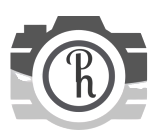
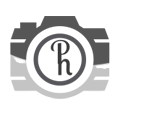
2nd

diff --git a/index.html b/index.html
@@ -17,7 +17,7 @@
 <!-- Navigation -->
 <nav class="navbar navbar-expand-md navbar-light sticky-top bg-light">
 	<div class ="container fluid">
-		<a class="navbar-brand" href="index.html"><img src="img/Screenshot_2020-09-20_at_8.47.58_PM-removebg-preview.png"></a>
+		<a class="navbar-brand" href="index.html"><img src="img/logo.png"></a>
 		<button class="navbar-toggler" type="button" data-toggle="collapse"data-target="#navbarResponsive">
 			<span class="navbar-toggler-icon"></span>
 			</button>
@@ -29,9 +29,9 @@
 					<li class="nav-items">
 						<a class="nav-link" href="photoghrapher.html">PHOTOGRAPHERS</a>	
 					</li><li class="nav-items">
-						<a class="nav-link" href="#">Connect us</a>	
+						<a class="nav-link" href="feedback.html">Feedback</a>	
 					</li><li class="nav-items">
-						<a class="nav-link" href="#">About us</a>	
+						<a class="nav-link" href="aboutus.html">About us</a>	
 					</li>
 				</ul>
 	</div>
@@ -123,7 +123,7 @@
 <div CLASS="container-fluid">
 	<div class="row Jumbotron">
 		<div class="col-xs-12 col-sn-12 col-ad-9 col-lg-9 col-xl-18">
-			<p class  = "lead">jai shree ram</p>
+			<p class  = "lead">We put you in direct contact with your photographer so you can have a helpful conversation ahead of the shoot. Discuss ideas, define your vision, and find out how to prepare.Know who your photographer is ahead of time. We only offer highly talented, pre-vetted, professional photographers. Don’t get caught off-guard by a student or someone with no experience.On-demand sites often outsource editing and post-production. But when you book with us, your photographer works with you from concept to completion. You get photos that reflect their signature style.</p>
 		</div>
 		<div class ="col-xs-12 col-sn-12 col-ad-3 col-lg-3 col-xl-2">
 		<a href="photoghrapher.html"><button type="button" class="btn btn-outline-secondary btn-lg">Get Phototgrapher</button></a>	
@@ -204,33 +204,30 @@
 	<div class="container-fluid padding">
 		<div class="row text-center">
 			<div class="col-md-4">
-				<img src="img/Screenshot_2020-09-20_at_8.47.58_PM-removebg-preview.png">
+				<img src="img/logo.png">
 				<hr class="light">
-				<p>+91-9364758920</p>
 				<p>photographerhub@gmail.com</p>
 				<p>689	Connaught Place</p>
-				<p>delhi,110001</p>
 </div>
 <div class="col-md-4">
+	<svg width="5em" height="5em" viewBox="0 0 16 16" class="bi bi-alarm" fill="currentColor" xmlns="http://www.w3.org/2000/svg">
+		<path fill-rule="evenodd" d="M6.5 0a.5.5 0 0 0 0 1H7v1.07a7.001 7.001 0 0 0-3.273 12.474l-.602.602a.5.5 0 0 0 .707.708l.746-.746A6.97 6.97 0 0 0 8 16a6.97 6.97 0 0 0 3.422-.892l.746.746a.5.5 0 0 0 .707-.708l-.601-.602A7.001 7.001 0 0 0 9 2.07V1h.5a.5.5 0 0 0 0-1h-3zm1.038 3.018a6.093 6.093 0 0 1 .924 0 6 6 0 1 1-.924 0zM8.5 5.5a.5.5 0 0 0-1 0v3.362l-1.429 2.38a.5.5 0 1 0 .858.515l1.5-2.5A.5.5 0 0 0 8.5 9V5.5zM0 3.5c0 .753.333 1.429.86 1.887A8.035 8.035 0 0 1 4.387 1.86 2.5 2.5 0 0 0 0 3.5zM13.5 1c-.753 0-1.429.333-1.887.86a8.035 8.035 0 0 1 3.527 3.527A2.5 2.5 0 0 0 13.5 1z"/>
+	  </svg>
 	<hr class="light">
 	<h5>Working 24/7</h5>
+</div>
+	<div class="col-md-4">
+		<a href="www.facebook.com"><i class="fab fa-facebook fa-5x"></i></a>
+		<a href="www.twitter.com"><i class="fab fa-twitter fa-5x"></i></a>
+		<a href="www.instagram.com"><i class="fab fa-instagram fa-5x"></i></a>
+		<a href="www.youtube.com"><i class="fab fa-youtube fa-5x"></i></a>
+		<hr class="light">
+		<h5>CONNECT</h5>
+	</div>
 </div>
 </div>
 
 </footer>
-<!-- <footer id="main-footer" class="bg-dark">
-	     <div class="container"> 
-			       <div class="row">
-					            <div class="col text-center py-4">           
-									<h3>LOOPLAB</h3>
-											   <p>Copyright &copy; <span id="year"></span></p>
-														  <button class="btn btn-primary" data-toggle="modal" data-target="#contactModal">Contact US</button>
-																 </div>
-																	   </div>
-																		 </div>
-																		   </footer> -->
-
-
 
 
 </body>

diff --git a/feedback.html b/feedback.html
@@ -29,63 +29,33 @@
 					<li class="nav-items">
 						<a class="nav-link" href="photoghrapher.html">PHOTOGRAPHERS</a>	
 					</li><li class="nav-items">
-						<a class="nav-link" href="feedback.html">Feedback</a>	
+						<a class="nav-link" href="feedback.html"><b>Feedback</b></a>	
 					</li><li class="nav-items">
-						<a class="nav-link" href="aboutus.html"><b>About us</b></a>	
+						<a class="nav-link" href="aboutus.html">About us</a>	
 					</li>
 				</ul>
 	</div>
 </nav>
-<div class="container-fluid padding">
-	<div class="row padding">
-	<div class="col-md-12 col-lg-6">
-		<center><h2>About us</h2></center>
-		<p>
-			Photographerhub released on 2018 since then servicing their customes best of the photoghraphers they need.
-		</p>
-	<p>
-		The photographerhub is free for all site for the customer on one click can book their desired photoghrapher accordind to their requirements.
-	</p>	
-	<P>
-		We put you in direct contact with your photographer so you can have a helpful conversation ahead of the shoot. Discuss ideas, define your vision, and find out how to prepare.Know who your photographer is ahead of time. We only offer highly talented, pre-vetted, professional photographers. Don’t get caught off-guard by a student or someone with no experience.On-demand sites often outsource editing and post-production. But when you book with us, your photographer works with you from concept to completion. You get photos that reflect their signature style.
-	</P>
-	<P>
-		FOR MORE INFO CONTACT YOUR SOCIALS.
-		</P>
-		<P>
-			THANK YOU!
-		</P>
-		<P>
-			PHOTOGRAPHERS HUB
-		</P>
-		<br>
-		<a href="www.instagram.com"class="btn btn-primary">SOCIALS</a>
-	</div>
-	<div class="col-lg-6">
-		<img src="img/IMG_20180803_161237-01.jpeg" class="img-fluid">
-	</div>
-	</div>
-	</div>
-
-
-
-
-
-
-
-
-
-
-
-
-
-
-
-
-
-
-
-
+<form>
+<div class="container-fluid pading">
+	<div class="row welcome text-center">
+		<div class="col-12">
+			<h1 class="display-4">Feedback Form</h1>
+		</div>
+		<div class="form-group">
+			<label for="exampleFormControlInput1">Email address</label>
+			<input type="email" class="form-control" id="exampleFormControlInput1" placeholder="name@example.com">
+		  </div>
+		</div>
+		<div class="form-group">
+		  <label for="exampleFormControlTextarea1">Feedback</label>
+		  <textarea class="form-control" id="feedback" rows="10"></textarea>
+		</div>
+		<button class="btn btn-primary" type="submit">submit</button>
+		</div>
+		</div>
+		</form>
+<div>
 <footer id ="main-footer"class="bg-light">
 	<div class="container-fluid padding">
 		<div class="row text-center">
@@ -114,6 +84,7 @@
 </div>
 
 </footer>
+</div>
 
 </body>
 </html>

diff --git a/photoghrapher.html b/photoghrapher.html
@@ -17,7 +17,7 @@
 <!-- Navigation -->
 <nav class="navbar navbar-expand-md navbar-light sticky-top">
 	<div class ="container fluid">
-		<a class="navbar-brand" href="#"><img src="img/Screenshot_2020-09-20_at_8.47.58_PM-removebg-preview.png"></a>
+		<a class="navbar-brand" href="#"><img src="img/logo.png"></a>
 		<button class="navbar-toggler" type="button" data-toggle="collapse"data-target="#navbarResponsive">
 			<span class="navbar-toggler-icon"></span>
 			</button>
@@ -29,7 +29,7 @@
 					<li class="nav-items">
 						<a class="nav-link" href="photoghrapher.html"><b>PHOTOGRAPHERS</b></a>	
 					</li><li class="nav-items">
-						<a class="nav-link" href="connect.html">Connect us</a>	
+						<a class="nav-link" href="feedback.html">Feedback</a>	
 					</li><li class="nav-items">
 						<a class="nav-link" href="aboutus.html">About us</a>	
 					</li>
@@ -55,7 +55,35 @@
 
 
 
-
+		<footer id ="main-footer"class="bg-light">
+			<div class="container-fluid padding">
+				<div class="row text-center">
+					<div class="col-md-4">
+						<img src="img/logo.png">
+						<hr class="light">
+						<p>photographerhub@gmail.com</p>
+						<p>689	Connaught Place</p>
+		</div>
+		<div class="col-md-4">
+			<svg width="5em" height="5em" viewBox="0 0 16 16" class="bi bi-alarm" fill="currentColor" xmlns="http://www.w3.org/2000/svg">
+				<path fill-rule="evenodd" d="M6.5 0a.5.5 0 0 0 0 1H7v1.07a7.001 7.001 0 0 0-3.273 12.474l-.602.602a.5.5 0 0 0 .707.708l.746-.746A6.97 6.97 0 0 0 8 16a6.97 6.97 0 0 0 3.422-.892l.746.746a.5.5 0 0 0 .707-.708l-.601-.602A7.001 7.001 0 0 0 9 2.07V1h.5a.5.5 0 0 0 0-1h-3zm1.038 3.018a6.093 6.093 0 0 1 .924 0 6 6 0 1 1-.924 0zM8.5 5.5a.5.5 0 0 0-1 0v3.362l-1.429 2.38a.5.5 0 1 0 .858.515l1.5-2.5A.5.5 0 0 0 8.5 9V5.5zM0 3.5c0 .753.333 1.429.86 1.887A8.035 8.035 0 0 1 4.387 1.86 2.5 2.5 0 0 0 0 3.5zM13.5 1c-.753 0-1.429.333-1.887.86a8.035 8.035 0 0 1 3.527 3.527A2.5 2.5 0 0 0 13.5 1z"/>
+			  </svg>
+			<hr class="light">
+			<h5>Working 24/7</h5>
+		</div>
+		
+		<div class="col-md-4">
+			<a href="www.facebook.com"><i class="fab fa-facebook fa-5x"></i></a>
+			<a href="www.twitter.com"><i class="fab fa-twitter fa-5x"></i></a>
+			<a href="www.instagram.com"><i class="fab fa-instagram fa-5x"></i></a>
+			<a href="www.youtube.com"><i class="fab fa-youtube fa-5x"></i></a>
+			<hr class="light">
+			<h5>CONNECT</h5>
+		</div>
+		</div>
+		
+		</footer>
+		
 
 </body>
 </html>
